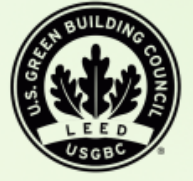
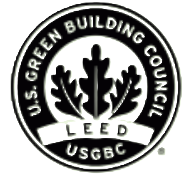
style(Footer): remove white background from certification images
The white background was removed from certification images in the Footer component to improve visual consistency with the dark theme. Also updated the container styling to remove redundant background color.

diff --git a/src/components/Footer.tsx b/src/components/Footer.tsx
@@ -112,10 +112,10 @@ const Footer = () => {
             <h4 className="font-semibold text-card mb-4">Certifications</h4>
             <div className="grid grid-cols-2 sm:grid-rows-3 lg:grid-rows-4 gap-3">
               {certifications.map((c) => (
-                <div key={c.src} className="flex items-center gap-2 p-2 rounded-lg bg-white/10 border border-card/20">
+                <div key={c.src} className="flex items-center gap-2 p-2 rounded-lg border border-card/20">
                   <img
                     src={c.src}
-                    className="h-16 w-auto object-contain bg-white rounded-md p-1"
+                    className="h-16 w-auto object-contain rounded-md p-1"
                     onError={(e) => {
                       (e.currentTarget as HTMLImageElement).style.display = "none";
                     }}
